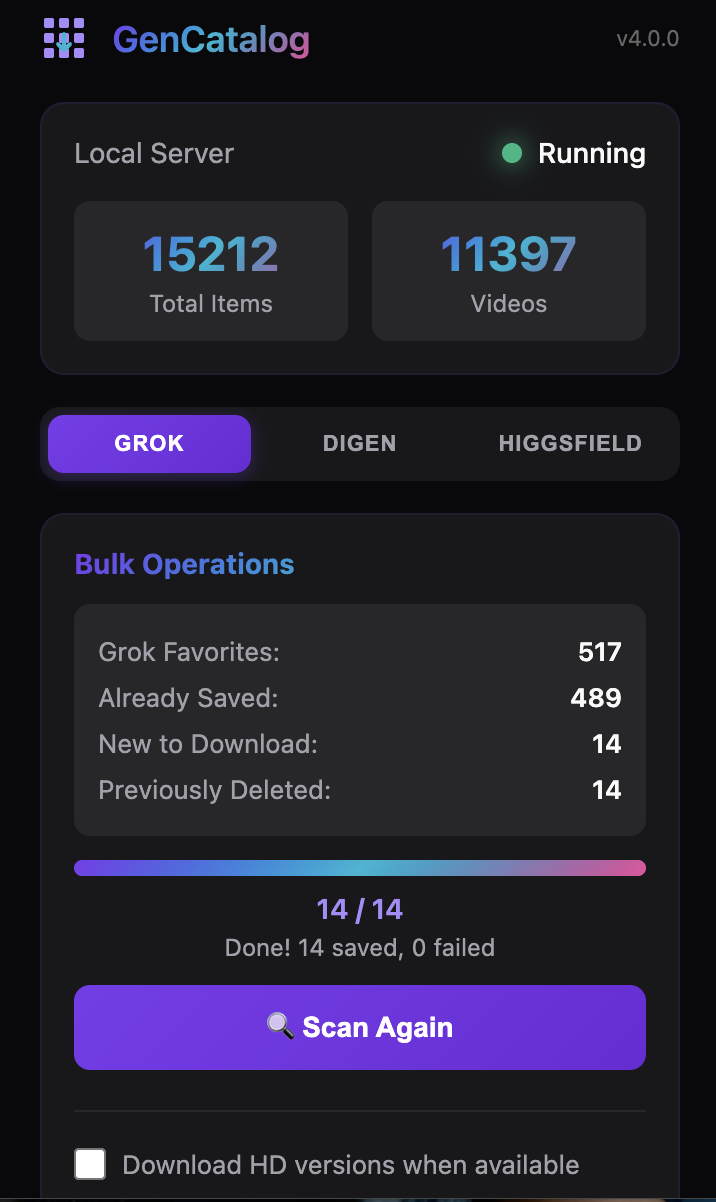
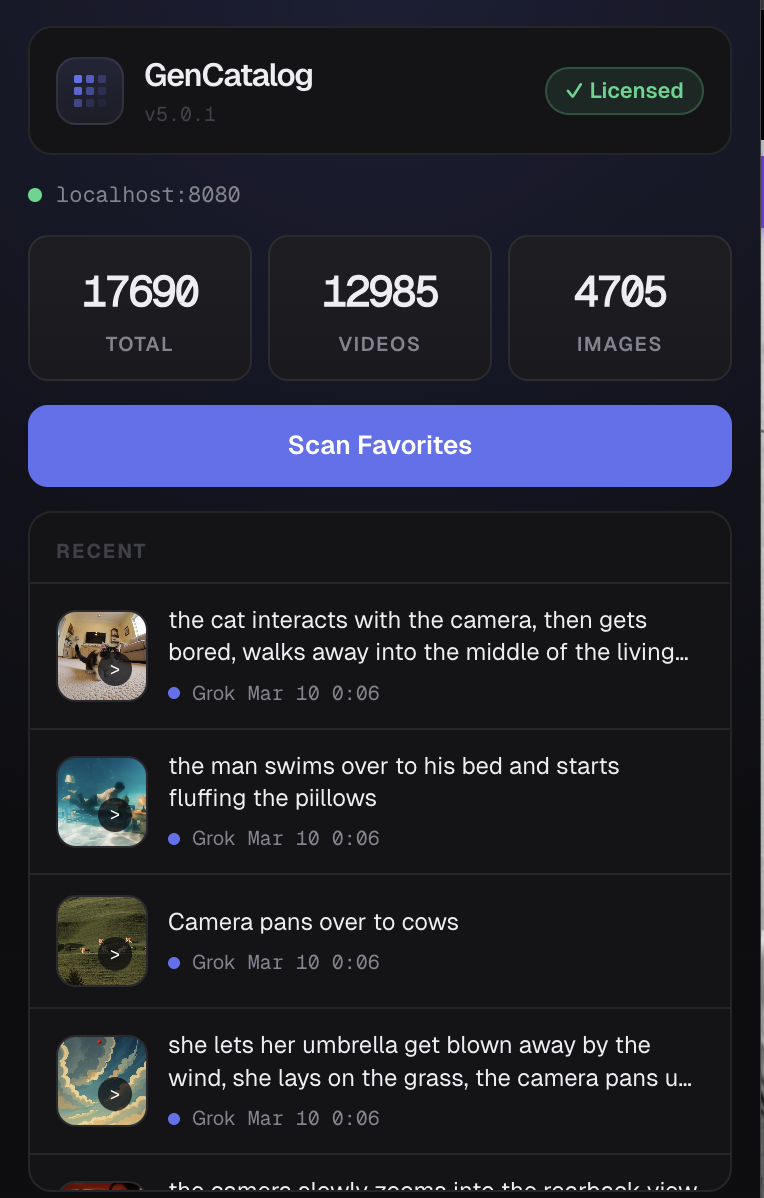
Update site images to GenCatalog 5.0 screenshots + bump stat to 17,000+

Changed region(s): [[0.0, 0.0, 1.0, 1.0]]

diff --git a/index.html b/index.html
@@ -1390,7 +1390,7 @@
     <section class="stats fade-in">
         <div class="stats-grid">
             <div class="stat-card">
-                <div class="stat-number">15,000+</div>
+                <div class="stat-number">17,000+</div>
                 <div class="stat-label">Items in our test catalog</div>
             </div>
             <div class="stat-card">
